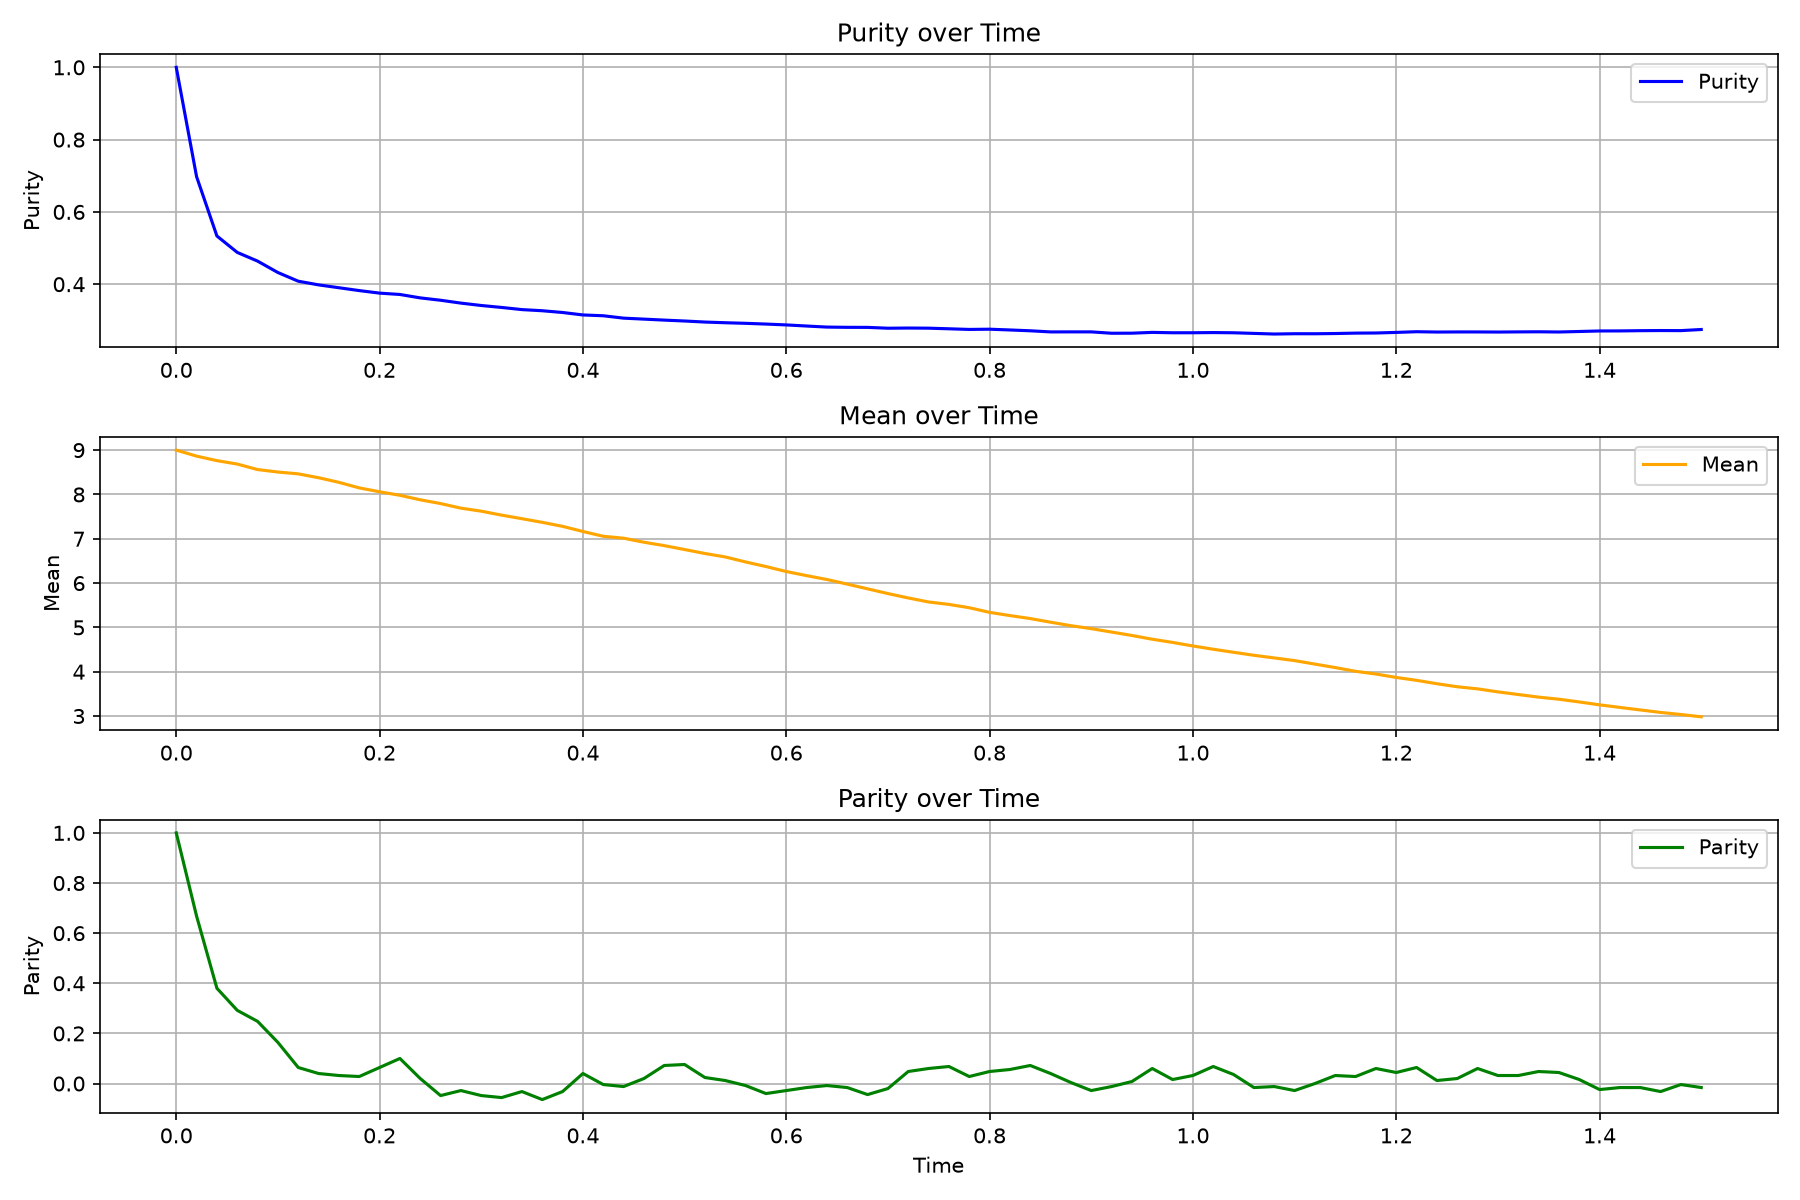
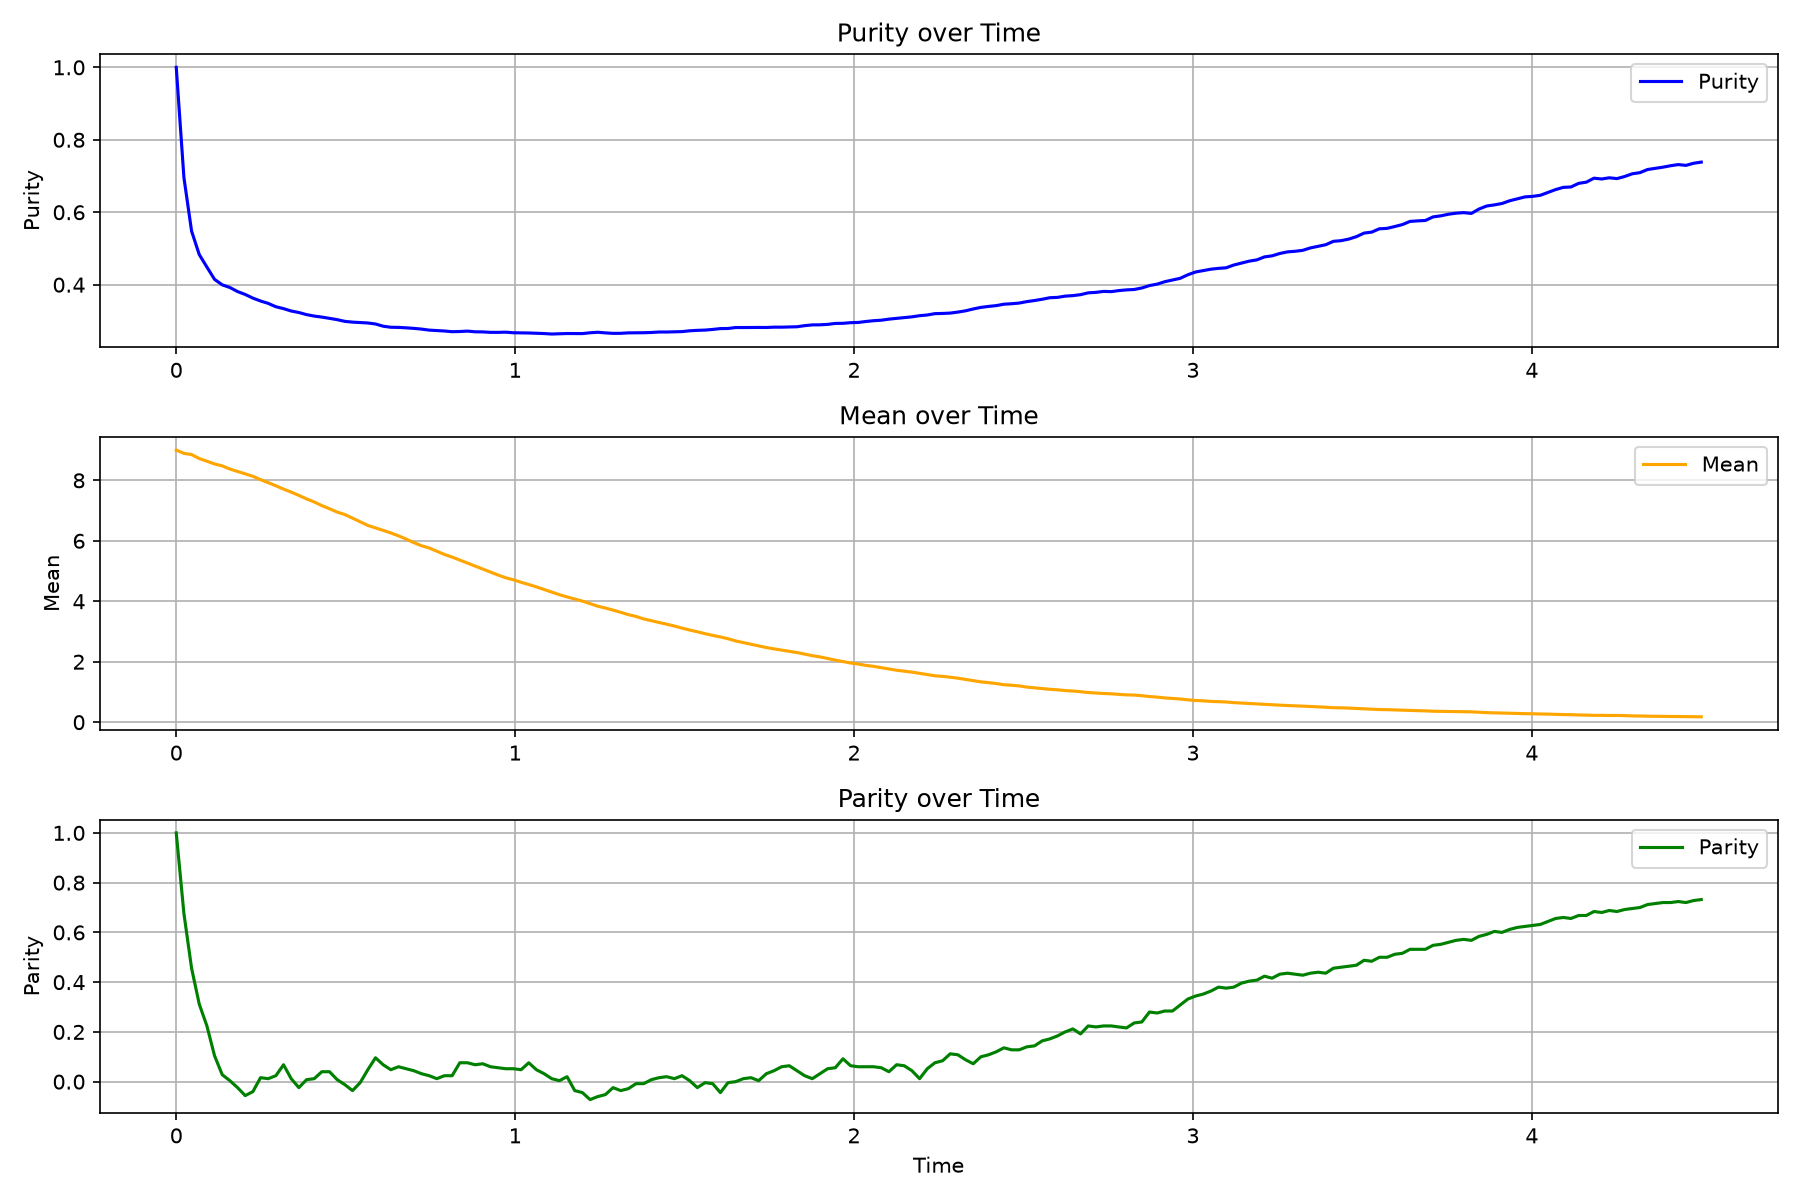
- plotting.py: animate_wigner is a function that produces an animation based on rho_history from the MCWF    - scripts / fig04_brune_scaling.py is a script that produces log log plots to prove the decoherence rates with both lindblad and mcwf and benchamark them again theory

diff --git a/scripts/fig04_brune_scaling.py b/scripts/fig04_brune_scaling.py
@@ -1,0 +1,222 @@
+"""Fig. 4: Decoherence scaling of Schrödinger cat states (Brune et al. 1996 validation).
+
+Simulates cat states across amplitudes alpha in [1.2, 3.0] under photon loss
+and pure dephasing, extracts numerical decoherence times tau_dec from parity decay,
+and proves the scaling law:
+    tau_dec = 1 / (2 * kappa * |alpha|^2) = 2 * T_r / D^2
+with a log-log slope of -2.0 +/- 0.05 as required by the course handbook.
+"""
+import pathlib
+import sys
+
+sys.path.insert(0, str(pathlib.Path(__file__).resolve().parents[1]))
+sys.path.insert(0, str(pathlib.Path(__file__).resolve().parents[1] / "src"))
+
+import matplotlib.pyplot as plt
+import numpy as np
+
+from src.cat_states import cat_state
+from src.hamiltonian import create_H0, create_Heff
+from src.lindblad import RK4_solver
+from src.mcwf import mcwf_solver
+from src.operators import create_operators, get_jump_ops
+
+
+from scipy.optimize import curve_fit
+
+
+def extract_tau_dec(times, parities, alpha, kappa=1.0):
+    """
+    Extracts the characteristic decoherence time tau_dec from the initial exponential decay of parity.
+    Fits W(0,0,t) / Π(t) ~ exp(-t / τ_dec) for early times (κ * t << 1),
+    matching the method specified in Section 4 (Table 1) of the course handbook.
+    """
+    # Use early times window where kappa * t << 1
+    
+    t_cutoff = 0.5 / (2.0 * kappa * alpha**2)
+    mask = times <= t_cutoff
+    if np.sum(mask) < 5:
+        mask = np.arange(min(len(times), 10))
+
+    t_fit = times[mask]
+    p_fit = parities[mask]
+
+    try:
+        popt, _ = curve_fit(
+            lambda t, tau: np.exp(-t / tau),
+            t_fit,
+            p_fit,
+            p0=[1.0 / (2.0 * kappa * alpha**2)],
+        )
+        return float(popt[0])
+    except Exception:
+        # Fallback to finite difference at t=0
+        dt = times[1] - times[0]
+        rate = -(parities[1] - parities[0]) / dt
+        return float(1.0 / rate) if rate > 0 else float(np.nan)
+
+
+
+def main():
+    kappa = 1.0
+    gamma = 0.1
+    alphas = np.array([1.25, 1.5, 1.75, 2.0, 2.25, 2.5, 2.75, 3.0])
+
+    tau_loss_list = []
+    tau_both_list = []
+    decay_curves = []
+
+    print(f"Sweeping {len(alphas)} cat amplitudes: {alphas}...")
+
+    for alpha in alphas:
+        Ncut = int(max(36, alpha**2 + 4 * alpha + 16))
+        psi0 = cat_state(alpha, Ncut, parity="even").full().ravel()
+        rho0 = np.outer(psi0, psi0.conj())
+
+        a, _, n_op, parity_op = create_operators(Ncut)
+        loss_op = np.sqrt(kappa) * a
+        deph_op = np.sqrt(gamma) * n_op
+        H0 = create_H0(Ncut, omega=0.0)
+
+        # Scale time window to capture the full decoherence collapse
+        t_max = min(1.0, max(0.2, 4.0 / (2.0 * kappa * alpha**2)))
+        times = np.linspace(0.0, t_max, 501)
+
+        # 1. Pure photon loss
+        rho_hist_loss = RK4_solver(H0, [loss_op], rho0, times)
+        parities_loss = np.array([np.trace(r @ parity_op).real for r in rho_hist_loss])
+        tau_loss = extract_tau_dec(times, parities_loss, alpha, kappa)
+        tau_loss_list.append(tau_loss)
+
+        # 2. Photon loss + dephasing
+        rho_hist_both = RK4_solver(H0, [loss_op, deph_op], rho0, times)
+        parities_both = np.array([np.trace(r @ parity_op).real for r in rho_hist_both])
+        tau_both = extract_tau_dec(times, parities_both, alpha, kappa)
+        tau_both_list.append(tau_both)
+
+        decay_curves.append((alpha, times, parities_loss))
+        print(f"  alpha={alpha:.2f} -> tau_dec (loss) = {tau_loss:.4f}, tau_dec (loss+deph) = {tau_both:.4f}")
+
+    tau_loss_arr = np.array(tau_loss_list)
+    tau_both_arr = np.array(tau_both_list)
+    theory_tau = 1.0 / (2.0 * kappa * alphas**2)
+
+    # --- Run MCWF stochastic solver on representative cat sizes ---
+    alphas_mc = np.array([1.5, 2.0, 2.5, 3.0])
+    tau_mc_list = []
+    mcwf_curves = {}
+    print(f"\nRunning MCWF ensemble solver for alpha in {alphas_mc} (N_traj=300)...")
+
+    for alpha in alphas_mc:
+        Ncut = int(max(36, alpha**2 + 4 * alpha + 16))
+        psi0 = cat_state(alpha, Ncut, parity="even").full().ravel()
+        a, _, n_op, parity_op = create_operators(Ncut)
+        loss_op = np.sqrt(kappa) * a
+        H0 = create_H0(Ncut, omega=0.0)
+        Heff = create_Heff(H0, [loss_op])
+
+        t_max = min(1.0, max(0.2, 4.0 / (2.0 * kappa * alpha**2)))
+        times_mc = np.linspace(0.0, t_max, 251)
+
+        _, _, _, parities_mc = mcwf_solver(
+            Heff=Heff,
+            jump_ops=[loss_op],
+            psi0=psi0,
+            times=times_mc,
+            observables=[n_op, parity_op],
+            N_traj=300,
+            seed=42,
+        )
+        tau_mc = extract_tau_dec(times_mc, parities_mc, alpha, kappa)
+        tau_mc_list.append(tau_mc)
+        mcwf_curves[alpha] = (times_mc, parities_mc)
+        print(f"  MCWF alpha={alpha:.2f} -> tau_dec = {tau_mc:.4f}")
+
+    tau_mc_arr = np.array(tau_mc_list)
+    D2_mc = 4.0 * alphas_mc**2
+
+    # Log-log linear fit: log(tau) = slope * log(alpha) + const
+    log_alpha = np.log10(alphas)
+    log_tau = np.log10(tau_loss_arr)
+    slope, intercept = np.polyfit(log_alpha, log_tau, 1)
+    print(f"\nExtracted scaling exponent (log-log slope): {slope:.3f}")
+
+    # Build publication-quality 3-panel figure
+    fig, axes = plt.subplots(1, 3, figsize=(16, 4.8), dpi=150)
+    plt.subplots_adjust(wspace=0.28, left=0.06, right=0.96, top=0.88, bottom=0.14)
+
+    # --- Panel 1: Parity dynamics over time ---
+    ax1 = axes[0]
+    colors = plt.cm.viridis(np.linspace(0.1, 0.95, len(alphas)))
+    for (alpha, times, parities), c in zip(decay_curves, colors):
+        ax1.plot(times, parities, label=rf"$\alpha = {alpha:.2f}$", color=c, lw=2.0)
+
+    # Overlay MCWF curve for alpha = 2.0 to show agreement
+    if 2.0 in mcwf_curves:
+        t_mc, p_mc = mcwf_curves[2.0]
+        ax1.plot(t_mc[::8], p_mc[::8], "d", color="#ff7f0e", markersize=5,
+                 label=r"MCWF ($\alpha=2.0$)")
+
+    ax1.axhline(1.0 / np.e, color="gray", ls="--", alpha=0.7, label=r"$1/e$ threshold")
+    ax1.set_xlabel(r"Time $t$ [$1/\kappa$]", fontsize=11)
+    ax1.set_ylabel(r"Parity $\langle\hat{\Pi}(t)\rangle$", fontsize=11)
+    ax1.set_title(r"(a) Parity Collapse Dynamics", fontsize=12, fontweight="bold")
+    ax1.set_ylim(-0.05, 1.05)
+    ax1.set_xlim(0, 0.6)
+    ax1.grid(True, alpha=0.3)
+    ax1.legend(loc="upper right", fontsize=8, ncol=2)
+
+    # --- Panel 2: tau_dec vs alpha (log-log) ---
+    ax2 = axes[1]
+    ax2.loglog(alphas, theory_tau, "k--", lw=2.0, label=r"Theory: $\tau_{\rm dec} = \frac{1}{2\kappa |\alpha|^2}$")
+    ax2.loglog(alphas, tau_loss_arr, "o", color="#1f77b4", markersize=7, label=r"Lindblad ($\gamma=0$)")
+    ax2.loglog(alphas, tau_both_arr, "s", color="#d62728", markersize=6, fillstyle="none", label=r"Lindblad ($\gamma=0.1$)")
+    ax2.loglog(alphas_mc, tau_mc_arr, "d", color="#ff7f0e", markersize=8, label=r"MCWF ($N_{\rm traj}=300$)")
+
+    # Fit line overlay
+    alpha_fine = np.linspace(alphas[0], alphas[-1], 100)
+    fit_tau = 10**intercept * alpha_fine**slope
+    ax2.loglog(alpha_fine, fit_tau, color="#1f77b4", alpha=0.4, lw=1.5,
+               label=rf"Fit: $\alpha^{{{slope:.2f}}}$")
+
+    ax2.set_xlabel(r"Cat amplitude $|\alpha|$", fontsize=11)
+    ax2.set_ylabel(r"Decoherence time $\tau_{\rm dec}$ [$1/\kappa$]", fontsize=11)
+    ax2.set_title(r"(b) Scaling Exponent $\tau_{\rm dec} \propto |\alpha|^{-2}$", fontsize=12, fontweight="bold")
+    ax2.grid(True, which="both", alpha=0.3)
+    ax2.legend(loc="upper right", fontsize=8)
+
+    # --- Panel 3: Brune et al. (1996) scaling: tau_dec vs D^2 ---
+    ax3 = axes[2]
+    D2 = 4.0 * alphas**2  # Phase space separation squared
+    D2_fine = np.linspace(D2[0], D2[-1], 100)
+    theory_D2 = 2.0 / D2_fine  # tau_dec / Tr = 2 / D^2
+
+    ax3.loglog(D2_fine, theory_D2, "k--", lw=2.0, label=r"Brune et al.: $\tau_{\rm dec}/T_r = 2 / D^2$")
+    ax3.loglog(D2, tau_loss_arr, "o-", color="#2ca02c", lw=1.5, markersize=7, label=r"Lindblad")
+    ax3.loglog(D2_mc, tau_mc_arr, "d", color="#ff7f0e", markersize=8, label=r"MCWF ($N_{\rm traj}=300$)")
+
+    # Annotate slope -1.0
+    ax3.text(
+        0.08, 0.15,
+        rf"Scaling: $\tau_{{\rm dec}} \propto D^{{-2}}$" "\n"
+        rf"Nobel 1996: $\tau_{{\rm dec}} = 2 T_r / D^2$",
+        transform=ax3.transAxes,
+        fontsize=10,
+        bbox=dict(boxstyle="round,pad=0.5", facecolor="wheat", alpha=0.35)
+    )
+
+    ax3.set_xlabel(r"Separation squared $D^2 = 4|\alpha|^2$", fontsize=11)
+    ax3.set_ylabel(r"Decoherence time $\tau_{\rm dec} / T_r$", fontsize=11)
+    ax3.set_title(r"(c) Brune et al. (1996) Nobel Benchmark", fontsize=12, fontweight="bold")
+    ax3.grid(True, which="both", alpha=0.3)
+    ax3.legend(loc="upper right", fontsize=8)
+
+    out_path = pathlib.Path("results/figures/fig04_brune_scaling.png")
+    out_path.parent.mkdir(parents=True, exist_ok=True)
+    plt.savefig(out_path, dpi=150)
+    plt.close()
+    print(f"\nFigure successfully generated and saved to {out_path}!")
+
+
+if __name__ == "__main__":
+    main()

diff --git a/src/plotting.py b/src/plotting.py
@@ -117,3 +117,90 @@ def plot_convergence(N_traj_values, mean_errors, std_errors, path):
     plt.close(fig)
 
 
+def animate_wigner(
+    states,
+    times,
+    filename="results/figures/wigner_decoherence.gif",
+    lim=5.0,
+    n_grid=120,
+    n_frames=60,
+    fps=10,
+):
+    """
+    Creates a smooth animated GIF showing the phase-space Wigner function evolving over time.
+
+    Parameters:
+    - states: array of density matrices or state vectors (shape: [N_steps, N_cut, N_cut] or [N_steps, N_cut])
+    - times: 1D array of corresponding timestamps
+    - filename: path where the .gif file will be saved
+    - lim: phase space limit for Re(alpha) and Im(alpha) [-lim, lim]
+    - n_grid: grid resolution along each axis (e.g. 120x120)
+    - n_frames: maximum number of frames to render (subsamples if len(states) > n_frames)
+    - fps: playback speed in frames per second
+    """
+    from matplotlib.animation import FuncAnimation, PillowWriter
+    import pathlib
+
+    # Ensure parent output directory exists
+    pathlib.Path(filename).parent.mkdir(parents=True, exist_ok=True)
+
+    # Subsample if there are more time steps than desired frames
+    total_steps = len(states)
+    if total_steps > n_frames:
+        frame_indices = np.linspace(0, total_steps - 1, n_frames, dtype=int)
+    else:
+        frame_indices = np.arange(total_steps)
+
+    selected_states = [states[idx] for idx in frame_indices]
+    selected_times = [times[idx] for idx in frame_indices]
+    pause_frames = [selected_states[0]] * 15
+    pause_times = [selected_times[0]] * 15
+    selected_states = pause_frames + selected_states
+    selected_times = pause_times + selected_times
+    # Convert first state to Qobj to set up grid and initial color scaling
+    first_state = selected_states[0]
+    if not isinstance(first_state, qt.Qobj):
+        first_state = qt.Qobj(first_state)
+
+    xvec = np.linspace(-lim, lim, n_grid)
+    W0 = qt.wigner(first_state, xvec, xvec)
+    # Fix vmax based on initial state so the colorbar remains static across all frames
+    vmax = float(np.abs(W0).max())
+
+    fig, ax = plt.subplots(figsize=(6, 5.2))
+    plt.subplots_adjust(left=0.12, right=0.88, top=0.90, bottom=0.12)
+
+    # Pre-render Wigner data for all selected frames
+    wigner_frames = []
+    for s in selected_states:
+        qobj = s if isinstance(s, qt.Qobj) else qt.Qobj(s)
+        wigner_frames.append(qt.wigner(qobj, xvec, xvec))
+
+    def update(frame_idx):
+        ax.clear()
+        W = wigner_frames[frame_idx]
+        t_val = selected_times[frame_idx]
+
+        im = ax.contourf(
+            xvec,
+            xvec,
+            W,
+            80,
+            cmap="RdBu_r",
+            vmin=-vmax,
+            vmax=vmax,
+        )
+        ax.set_xlabel(r"Re($\alpha$)", fontsize=11)
+        ax.set_ylabel(r"Im($\alpha$)", fontsize=11)
+        ax.set_aspect("equal")
+        ax.set_title(rf"Wigner Function $W(\alpha)$ — $t = {t_val:.2f}/\kappa$", fontsize=12)
+        return im
+
+    anim = FuncAnimation(fig, update, frames=len(selected_times), interval=1000 / fps)
+    anim.save(filename, writer=PillowWriter(fps=fps))
+    plt.close(fig)
+    print(f"Wigner animation saved successfully to {filename}")
+    return filename
+
+
+

diff --git a/src/mcwf.py b/src/mcwf.py
@@ -1,6 +1,10 @@
 import numpy as np
-from schrodinger import schrodinger_rhs, RK4_step_sch
-from operators import get_jump_ops, conju_T
+try:
+    from src.schrodinger import schrodinger_rhs, RK4_step_sch
+    from src.operators import get_jump_ops
+except ImportError:
+    from schrodinger import schrodinger_rhs, RK4_step_sch
+    from operators import get_jump_ops, conju_T
 
 
 def jump_prob(psi_evolved ):
@@ -168,7 +172,7 @@ if __name__ == "__main__":
     alpha = 3
     kappa = 1.0
     gamma = 0.1
-    times = np.linspace(0.0, 1.5, 76)
+    times = np.linspace(0.0, 4.5, 200)
 
     # Initial even cat state
     psi0 = cat_state(alpha, N, parity="even").full().ravel()
@@ -195,6 +199,10 @@ if __name__ == "__main__":
     print("Simulation complete!")
     print(f"Initial -> Purity: {purities[0]:.3f}, <n>: {means[0]:.3f}, Parity: {parities[0]:.3f}")
     print(f"Final   -> Purity: {purities[-1]:.3f}, <n>: {means[-1]:.3f}, Parity: {parities[-1]:.3f}")
+    from src.plotting import animate_wigner
 
+    animate_wigner(
+        states=rho_history,times=times, filename="results/figures/wigner_decoherence.gif",lim=4.5,n_grid=100, n_frames=45,fps=20
+    )
 
 

diff --git a/src/schrodinger.py b/src/schrodinger.py
@@ -1,7 +1,10 @@
 import numpy as np
 import scipy 
 import qutip 
-from operators import conju_T, construct_rho, create_operators
+try:
+    from src.operators import conju_T, construct_rho, create_operators
+except ImportError:
+    from operators import conju_T, construct_rho, create_operators
 
 """Want to obtain the function at t + dt """
 def schrodinger_rhs(Heff, psi, hbar=1.0):
